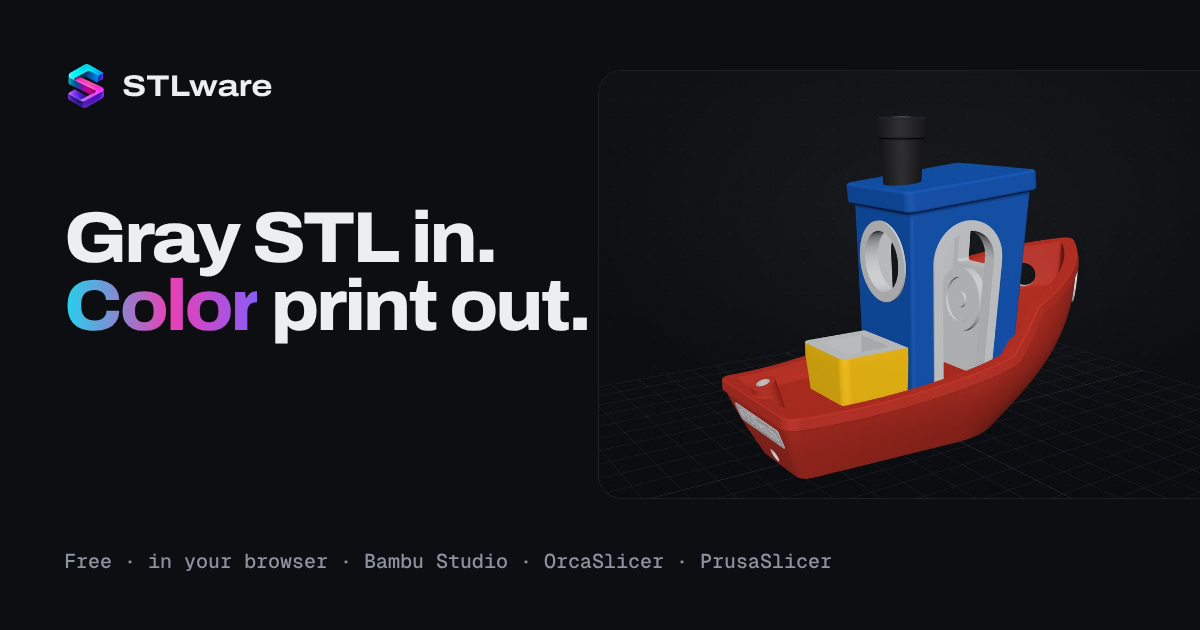
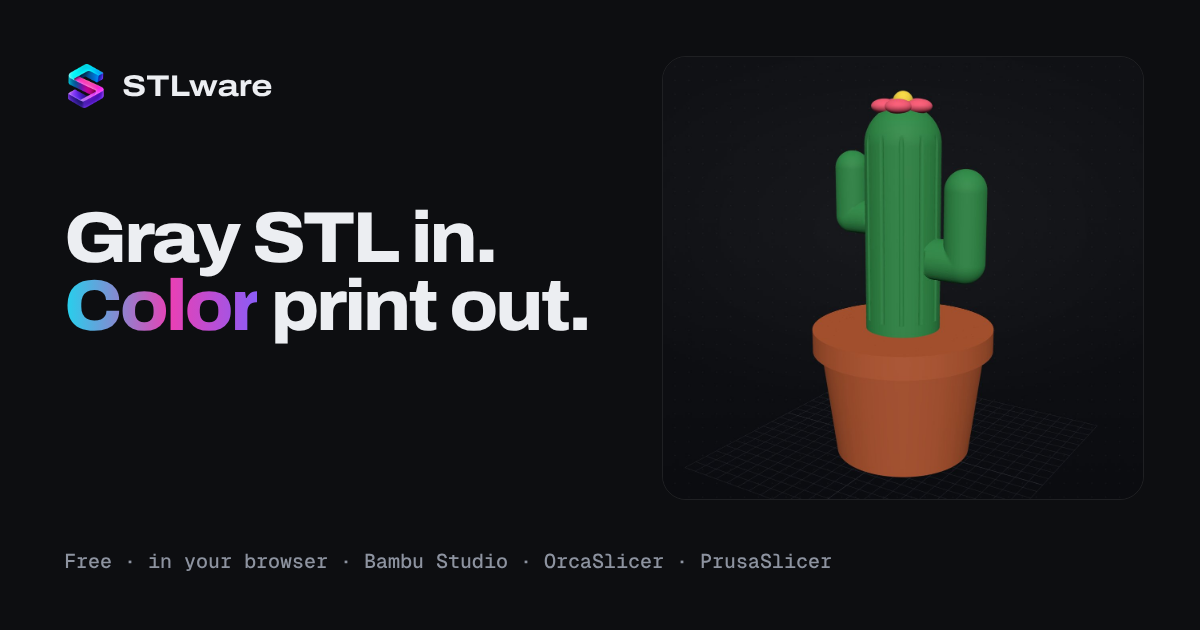
Landing: cactus and cut rocket instead of Benchy and old cut model (v0.5.4) (#45)
* Landing page at /, editor at /editor (v0.5.0)

- New landing page (app/index.html, src/landing.ts, src/landing.css) based on the approved v9 mockup: EN/SK, drop zone that opens the model in the editor, #3DBenchy sample link, FAQ, privacy, feedback.
- Editor moved to app/editor.html, served at /editor (.htaccess rewrite, dev/preview middleware). /editor?sample=benchy opens the sample, /editor?open=drop opens the file dropped on the landing page (handed over through IndexedDB).
- Editor: tooltips for B/E/F/S/V and X/Y/Z, "Cut parts" tab with an icon, phone/tablet notice, texts name Bambu Studio, OrcaSlicer and PrusaSlicer.
- 3MF export also writes slic3rpe:mmu_segmentation so PrusaSlicer reads the colours.
- Anonymous counts: /api/hit.php (upload, export), /api/count.php, /api/stats.php. No IPs, no cookies, no file data.
- Hidden export counter (COUNTER_MIN) and desktop sign-up switch in src/site-config.ts.
- SEO: meta, Open Graph image, schema.org SoftwareApplication (price 0), robots.txt, sitemap.xml.
- Self-hosted fonts (Archivo, Geist, Geist Mono).

Claude-Session: https://claude.ai/code/session_015thdPVs6qyhi56jzz38Mqk

* Landing page: English only, fix the before/after colours (v0.5.1)

- The coloured Benchy in section 02 never loaded: it had loading="lazy" but starts fully clipped, so the browser never saw it as visible. Both wipe images now load normally.
- The landing page is English only: EN/SK switch and Slovak texts removed.
[…]

Changed region(s): [[0.5858, 0.1508, 0.925, 0.7841]]

diff --git a/app/index.html b/app/index.html
@@ -72,14 +72,13 @@
           <p class="counter" id="counter" hidden></p>
         </div>
         <figure class="stage">
-          <img src="img/benchy-painted.jpg" alt="A #3DBenchy painted red, blue, yellow, white and black in the STLware editor" width="1200" height="800" fetchpriority="high" />
+          <img src="img/cactus-hero.jpg" alt="A potted cactus painted green, terracotta, pink and yellow in the STLware editor" width="1200" height="1105" fetchpriority="high" />
           <div class="ams" aria-label="Filament slots used in this model">
             <b>Filament slots</b>
-            <span class="slot"><i style="--c:var(--pla-red)"></i><span>1 · Red</span></span>
-            <span class="slot"><i style="--c:var(--pla-cobalt)"></i><span>2 · Cobalt blue</span></span>
-            <span class="slot"><i style="--c:var(--pla-yellow)"></i><span>3 · Yellow</span></span>
-            <span class="slot"><i style="--c:var(--pla-white)"></i><span>4 · Jade white</span></span>
-            <span class="slot"><i style="--c:#1d1f24;box-shadow:inset 0 0 0 1px rgba(255,255,255,.25)"></i><span>5 · Black</span></span>
+            <span class="slot"><i style="--c:#2e8b47"></i><span>1 · Green</span></span>
+            <span class="slot"><i style="--c:#b5582f"></i><span>2 · Terracotta</span></span>
+            <span class="slot"><i style="--c:#f55a74"></i><span>3 · Pink</span></span>
+            <span class="slot"><i style="--c:#f4d53f"></i><span>4 · Yellow</span></span>
           </div>
         </figure>
       </div>
@@ -115,12 +114,12 @@
         </div>
       </div>
       <figure class="wipe" style="margin-bottom:0" aria-label="The same model before and after painting in STLware">
-        <img src="img/benchy-gray.jpg" alt="The model as downloaded, in one gray color" width="980" height="546" />
+        <img src="img/cactus-gray.jpg" alt="A cactus model as downloaded, in one gray color" width="980" height="903" />
         <!-- not lazy: this image starts fully clipped, and a lazy image that is never "visible" never loads -->
-        <img class="after" src="img/benchy-after.jpg" alt="The same model painted orange, blue and white" width="980" height="546" />
+        <img class="after" src="img/cactus-painted.jpg" alt="The same cactus painted green, terracotta, pink and yellow" width="980" height="903" />
         <span class="edge" aria-hidden="true"></span>
       </figure>
-      <div class="wipe-legend"><span>As downloaded · 1 color</span><span>After STLware · 3 colors, ready to slice</span></div>
+      <div class="wipe-legend"><span>As downloaded · 1 color</span><span>After STLware · 4 colors, ready to slice</span></div>
       <div class="stats">
         <div class="stat"><b>700k+</b><span>triangles open in seconds</span></div>
         <div class="stat"><b>STL · 3MF · OBJ</b><span>formats you can open</span></div>
@@ -186,7 +185,7 @@
             <p style="color:var(--muted)">Drag a cutting plane through the model. STLware adds square pegs on one side and matching holes on the other, with your tolerance, so the parts snap back together.</p>
             <div class="chips"><span class="chip">cutting plane</span><span class="chip">pegs + holes</span><span class="chip">0.2 mm tolerance</span><span class="chip">parts as ZIP</span></div>
           </div>
-          <img src="img/cut-peg.jpg" alt="A model cut in two, with a square peg on the cut face" width="792" height="680" loading="lazy" />
+          <img src="img/rocket-cut.jpg" alt="A rocket cut in two: the lower part with a square peg on the cut face" width="1000" height="810" loading="lazy" />
         </article>
       </div>
     </div>

diff --git a/src/landing.css b/src/landing.css
@@ -89,7 +89,7 @@ p { margin: 0; }
   -webkit-background-clip: text; background-clip: text;
 }
 
-.hero-row { display: grid; grid-template-columns: minmax(0, 1fr) minmax(0, 1.05fr); gap: 56px; align-items: end; margin-top: 48px; }
+.hero-row { display: grid; grid-template-columns: minmax(0, 1fr) minmax(0, 1.05fr); gap: 56px; align-items: center; margin-top: 48px; }
 .hero .sub { font-size: 19px; line-height: 1.55; color: #c3c8d1; max-width: 44ch; }
 .hero .sub strong { color: var(--text); font-weight: 600; }
 .cta { display: flex; gap: 12px; flex-wrap: wrap; margin-top: 32px; }
@@ -118,13 +118,13 @@ section { padding: 120px 0; border-top: 1px solid var(--line); }
 .problem p { color: var(--muted); }
 
 /* solution: automatic before / after */
-.wipe { position: relative; margin-top: 64px; border-radius: 22px; overflow: hidden; border: 1px solid var(--line); background: #0b0c0f; aspect-ratio: 980 / 546; }
+.wipe { position: relative; margin-top: 64px; border-radius: 22px; overflow: hidden; border: 1px solid var(--line); background: #0b0c0f; aspect-ratio: 980 / 903; max-width: 760px; margin-inline: auto; }
 .wipe img { position: absolute; inset: 0; width: 100%; height: 100%; object-fit: cover; }
 .wipe .after { animation: wipe 9s ease-in-out infinite; }
 .wipe .edge { position: absolute; top: 0; bottom: 0; width: 2px; background: #fff; box-shadow: 0 0 18px 2px rgba(255,255,255,.5); animation: edge 9s ease-in-out infinite; }
 @keyframes wipe { 0%, 10% { clip-path: inset(0 0 0 100%); } 45%, 75% { clip-path: inset(0 0 0 0); } 100% { clip-path: inset(0 0 0 100%); } }
 @keyframes edge { 0%, 10% { left: 100%; opacity: 1; } 45% { left: 0; opacity: 1; } 46%, 75% { left: 0; opacity: 0; } 76% { opacity: 1; } 100% { left: 100%; opacity: 1; } }
-.wipe-legend { display: flex; justify-content: space-between; gap: 12px; flex-wrap: wrap; margin-top: 16px; font: 13px var(--mono); color: var(--muted); }
+.wipe-legend { max-width: 760px; margin-inline: auto; display: flex; justify-content: space-between; gap: 12px; flex-wrap: wrap; margin-top: 16px; font: 13px var(--mono); color: var(--muted); }
 .stats { display: grid; grid-template-columns: repeat(4, 1fr); margin-top: 56px; border-top: 1px solid var(--line); }
 .stat { padding: 28px 24px 0 0; }
 .stat + .stat { padding-left: 24px; border-left: 1px solid var(--line); }
